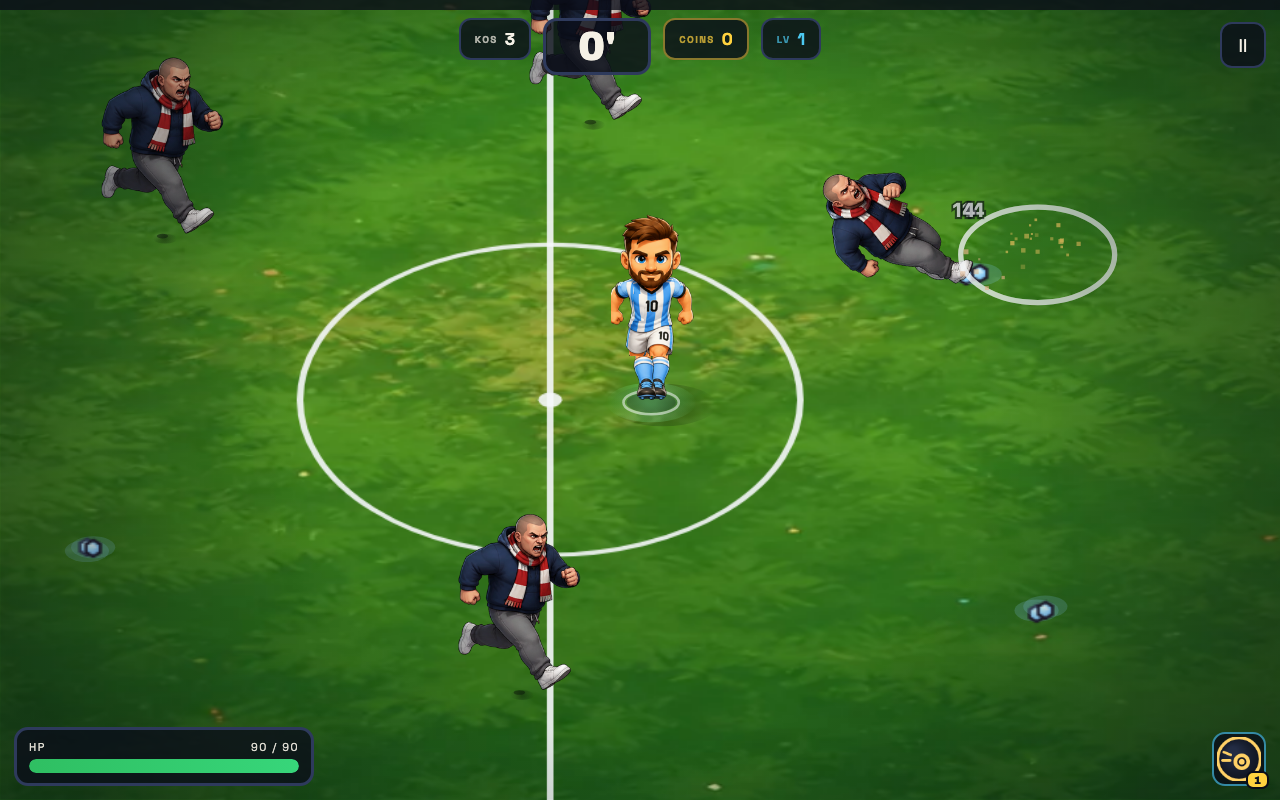
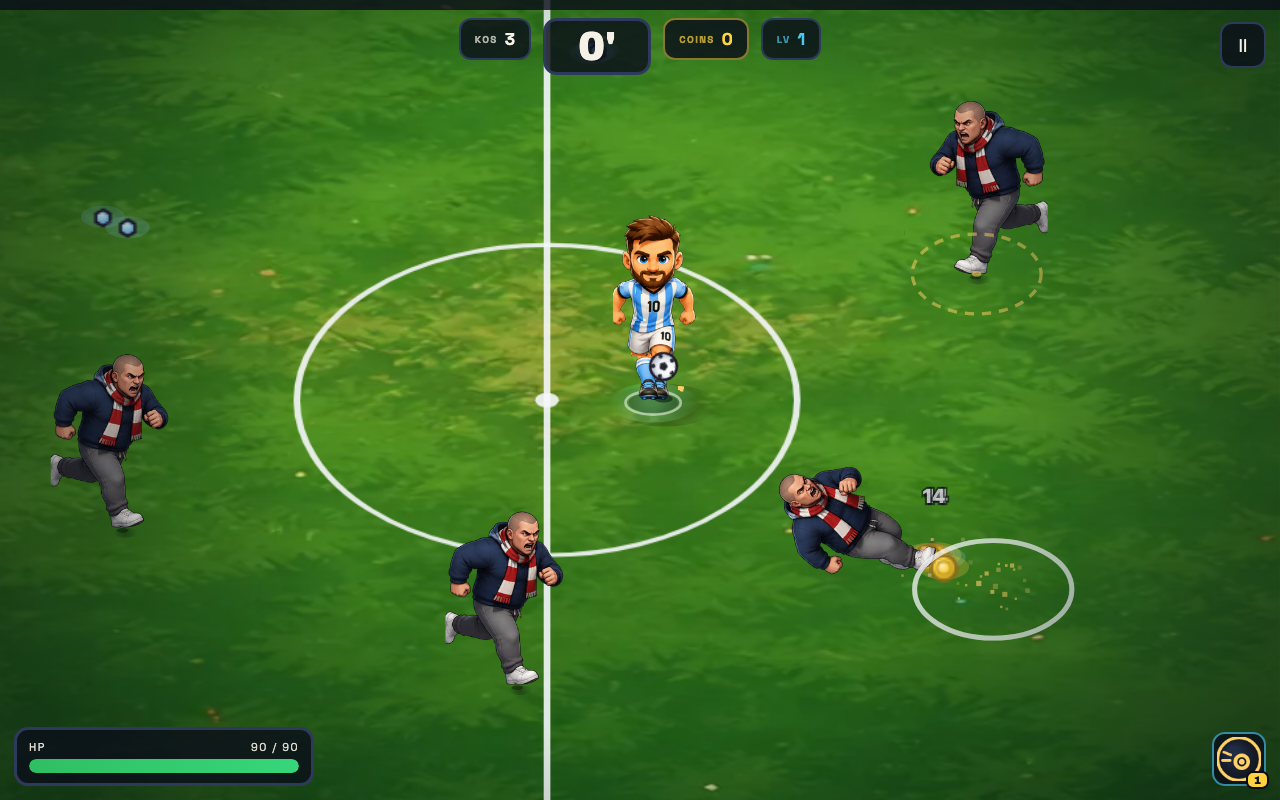
feat: replace control and elite enemy art

diff --git a/src/game/data.ts b/src/game/data.ts
@@ -308,7 +308,7 @@ export const ENEMIES: Record<Exclude<EnemyId, 'official' | 'captain' | 'drumboss
   },
   vuvuzela: {
     id: 'vuvuzela', name: 'Vuvuzela Blaster', hp: 40, speed: 50, damage: 9, xp: 4,
-    radius: 15, unlockAt: 300, weight: 24, coinChance: 0.3, behavior: 'cone', scale: 1,
+    radius: 15, unlockAt: 300, weight: 24, coinChance: 0.3, behavior: 'cone', scale: 1.15,
   },
   mascot: {
     id: 'mascot', name: 'Rival Mascot', hp: 130, speed: 46, damage: 18, xp: 8,
